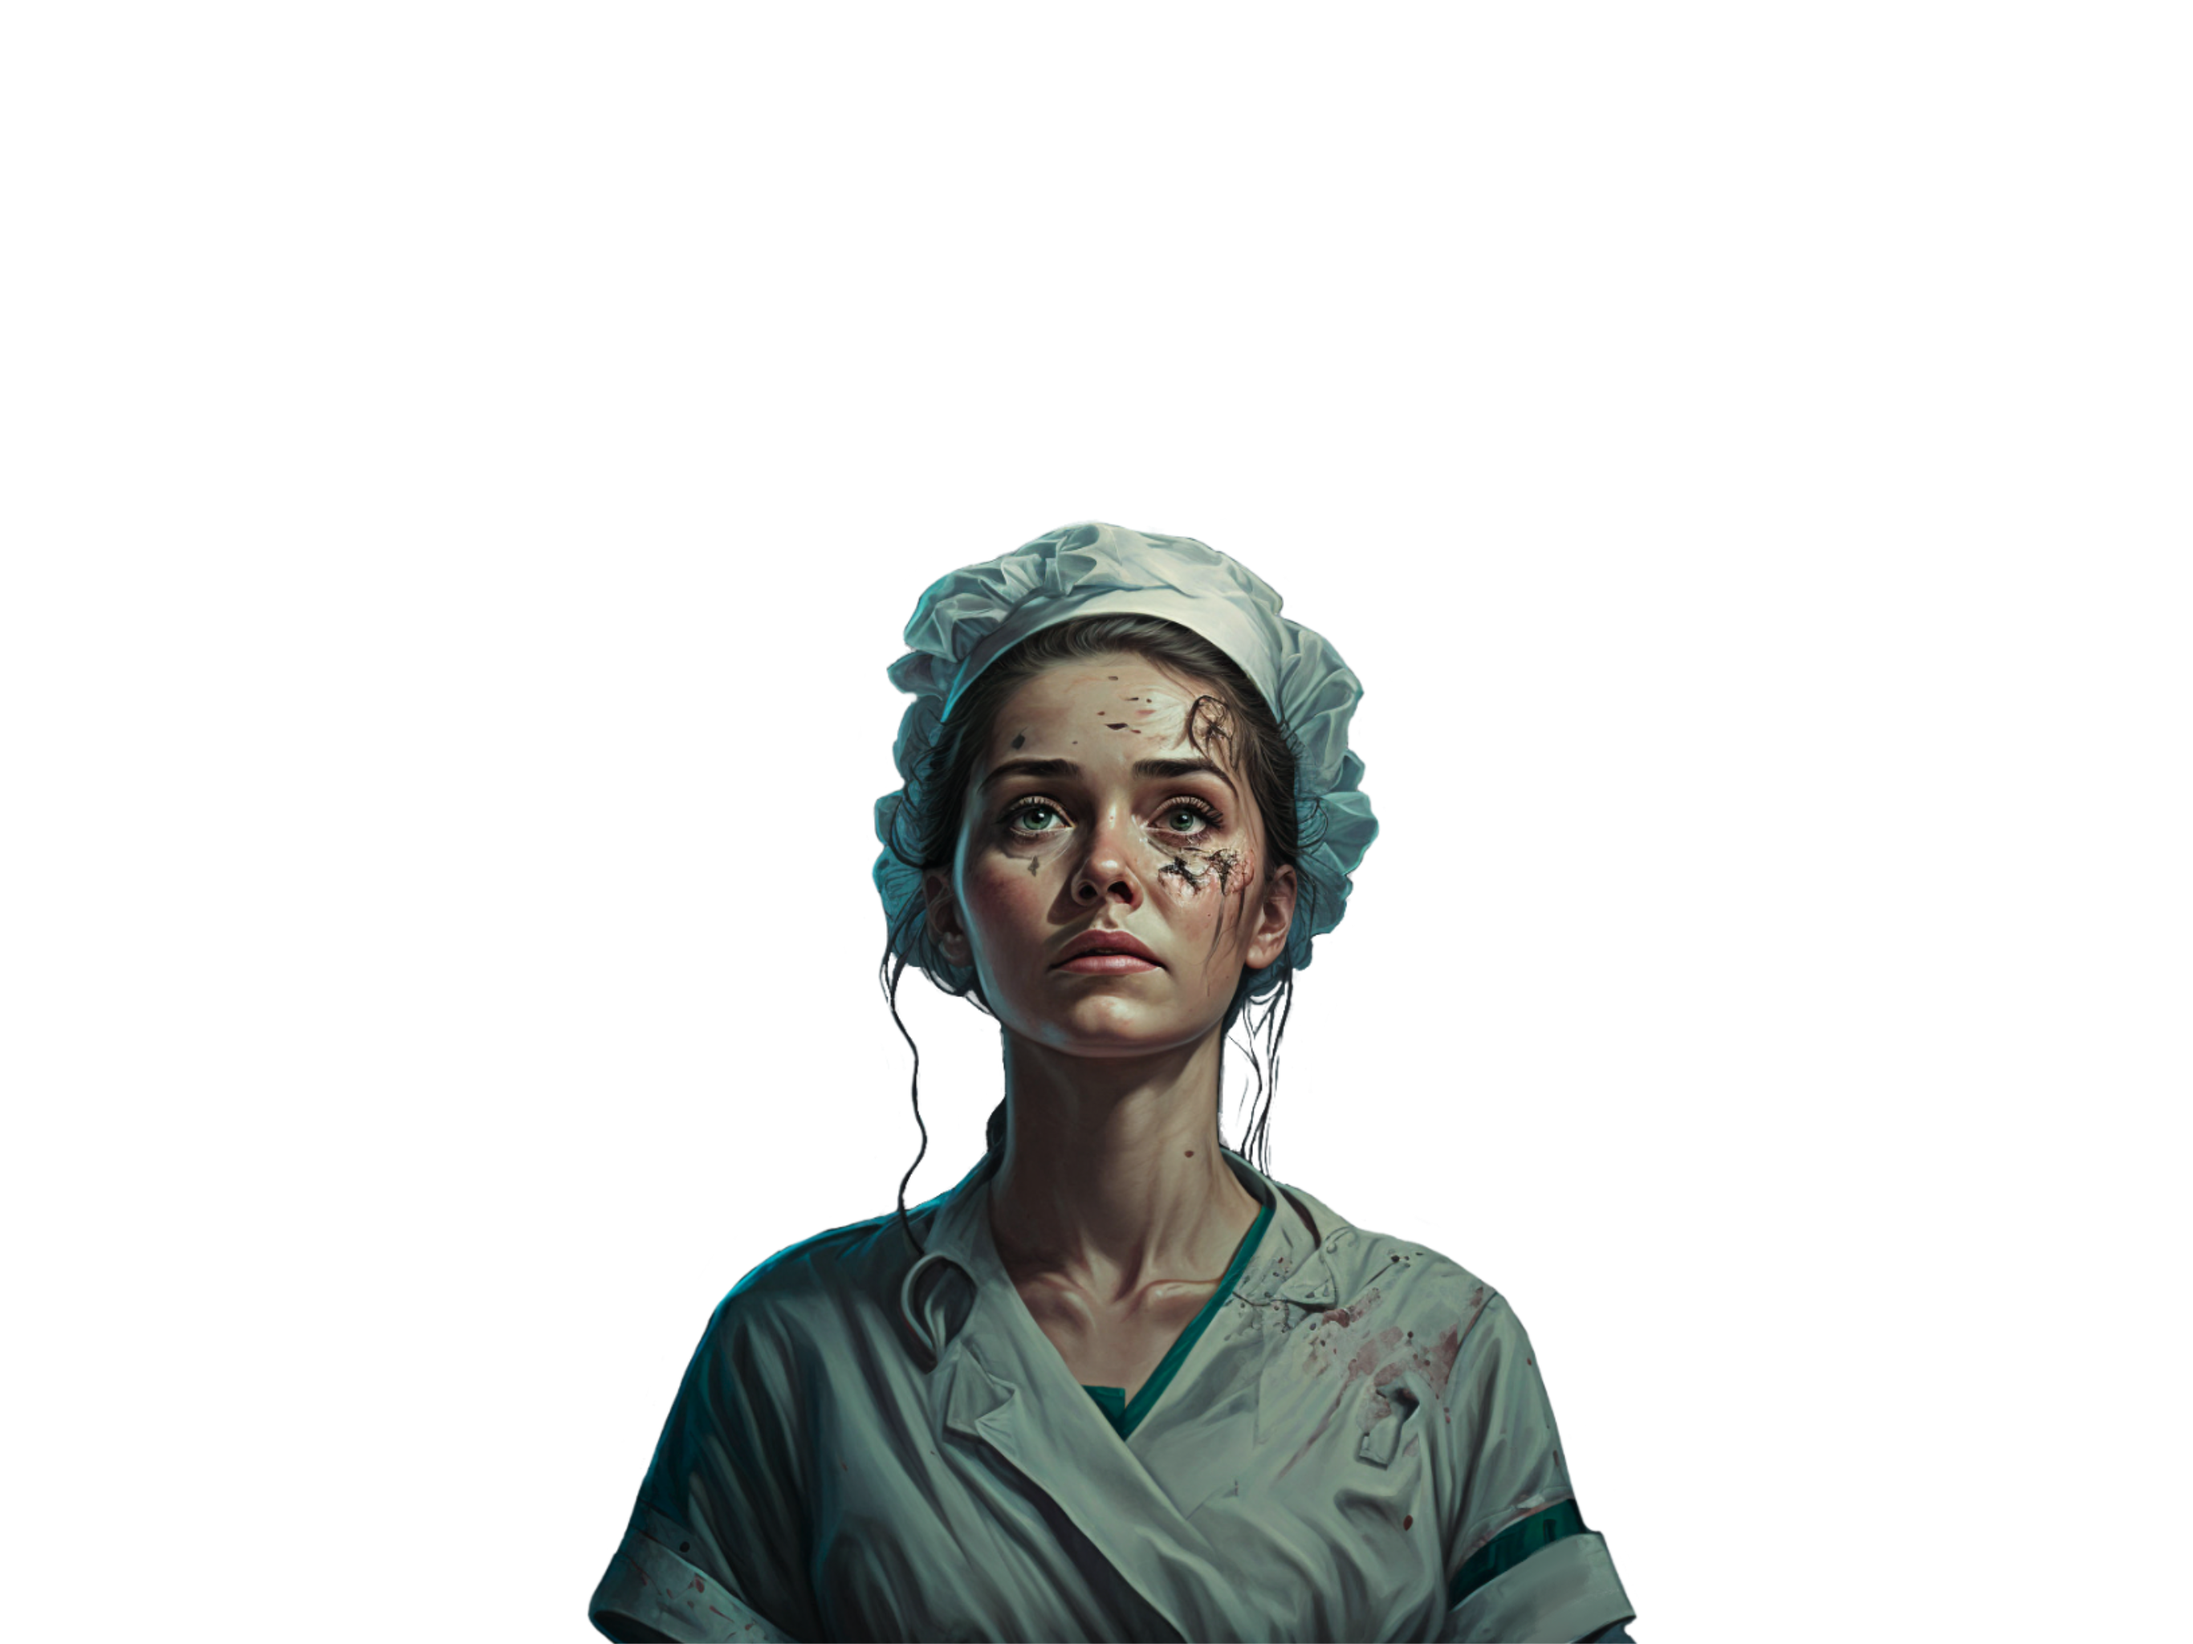
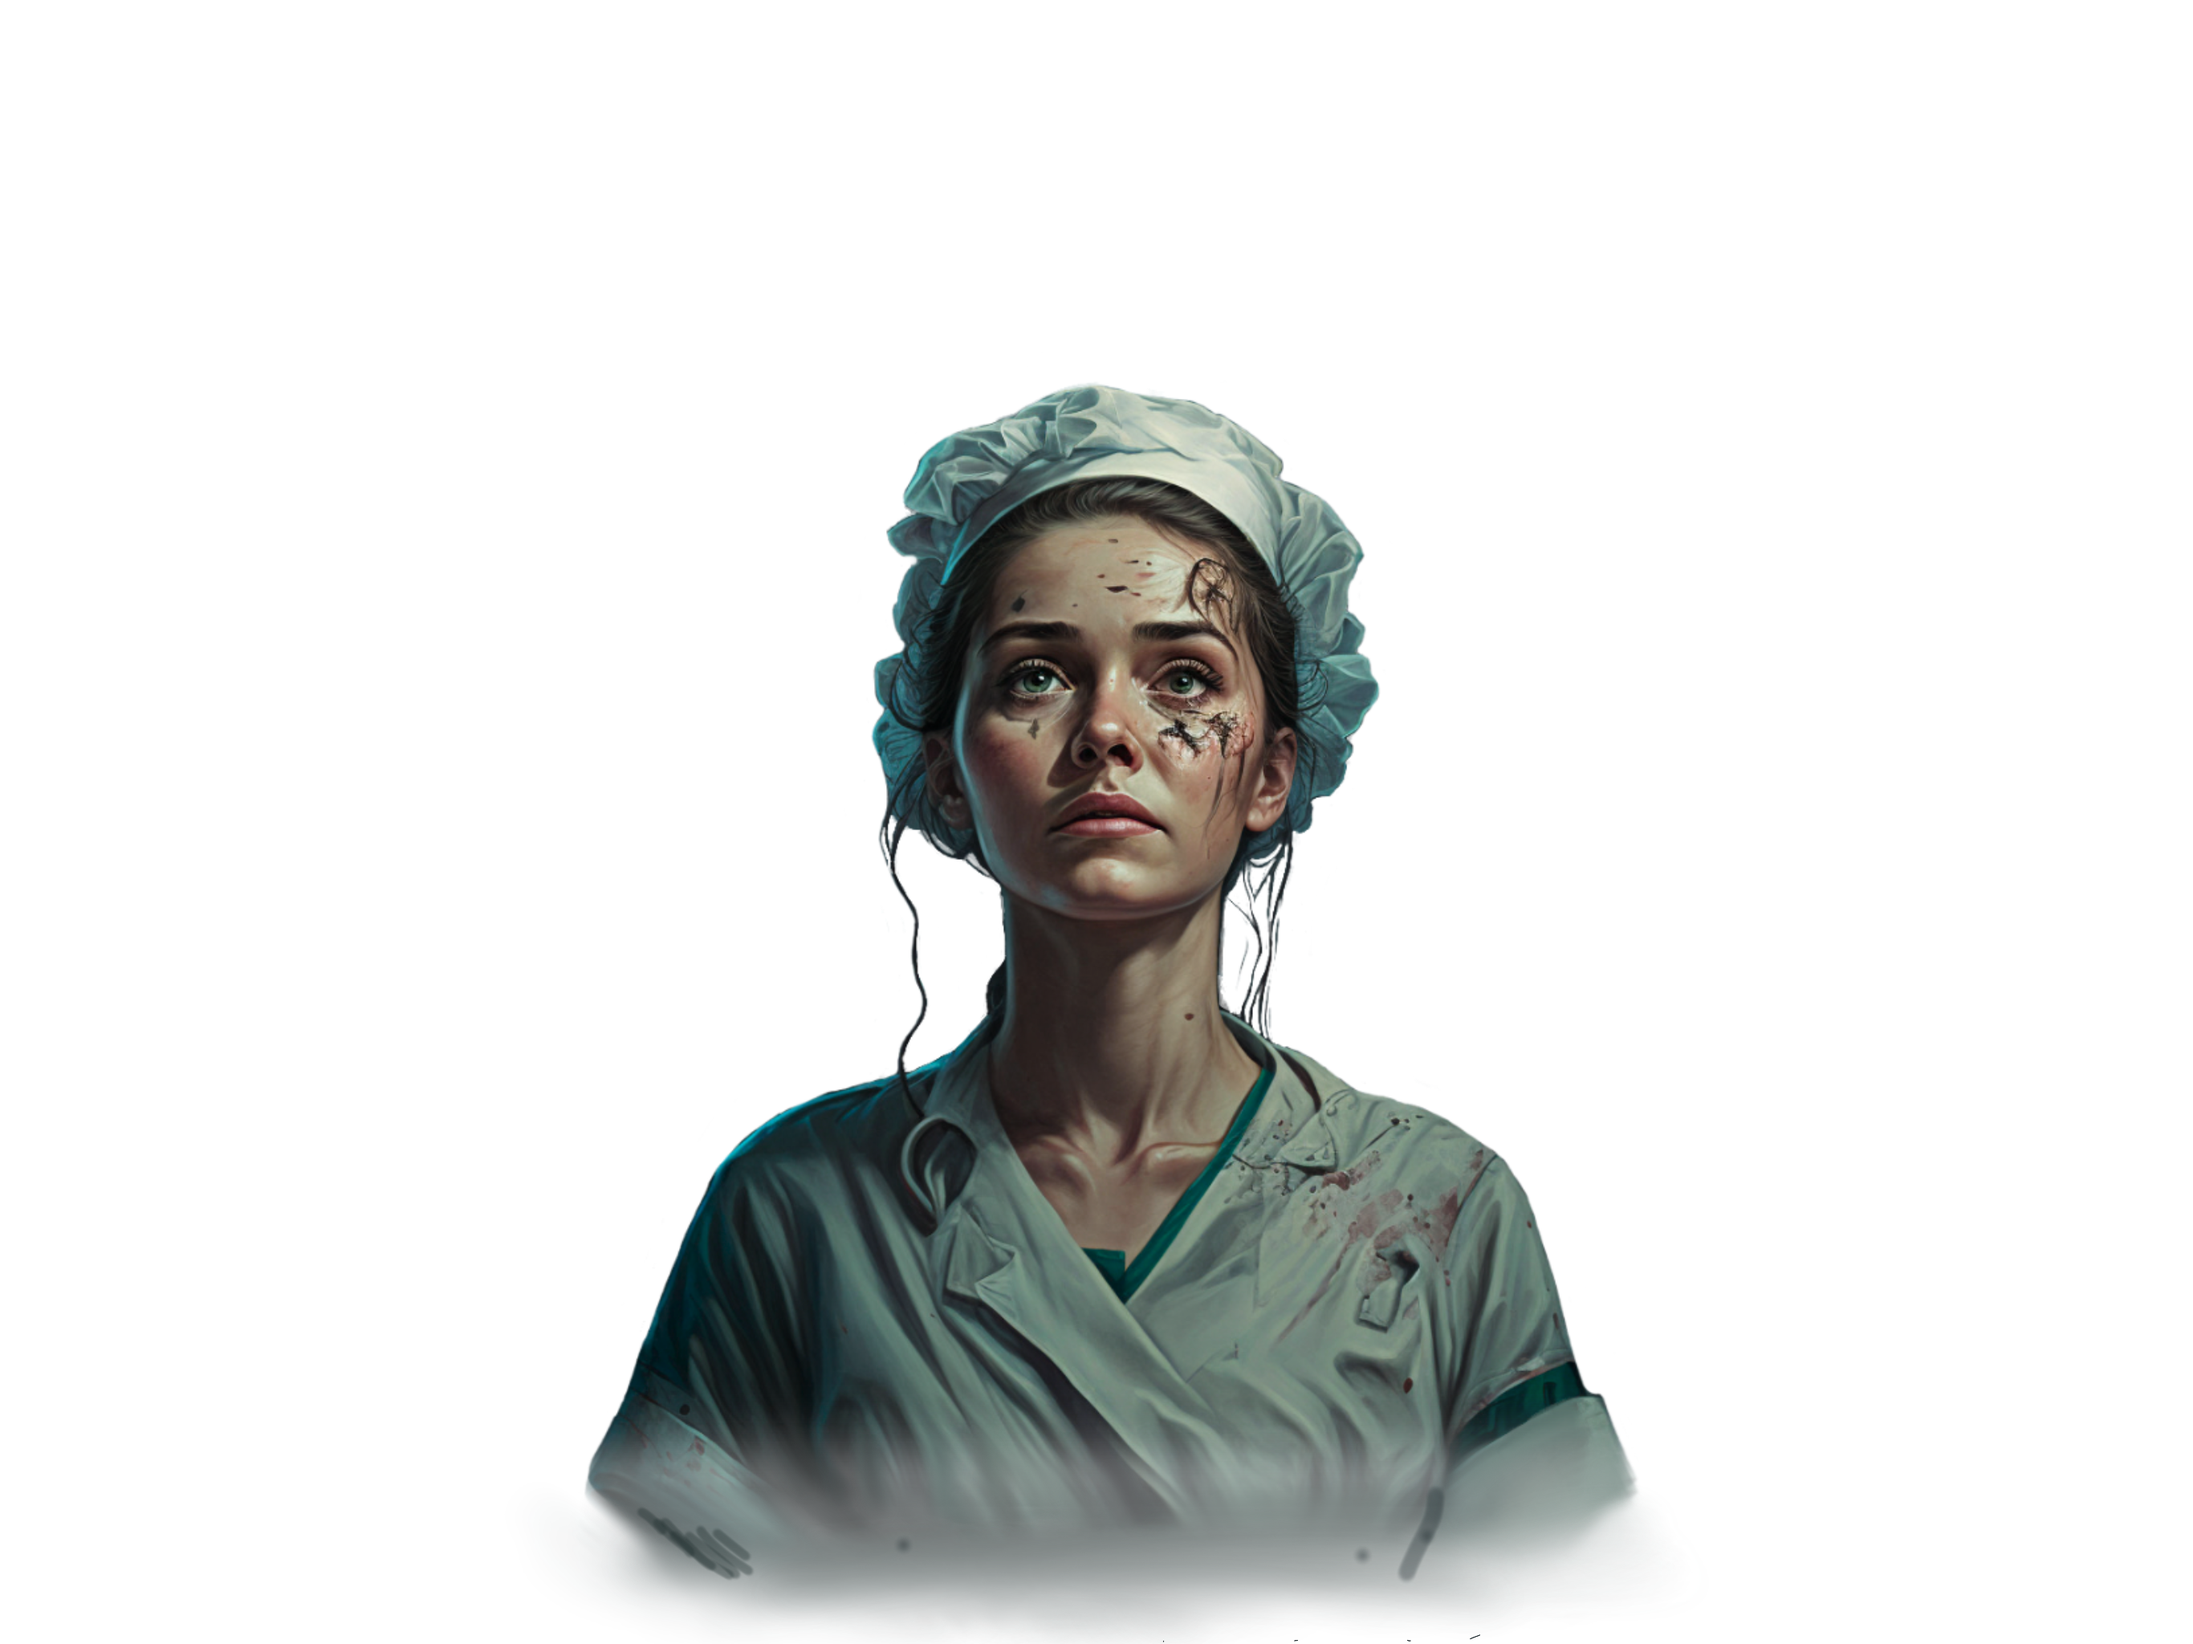
fix nurse image, toggle after nurse, rest of text

Changed region(s): [[0.2489, 0.2188, 0.7467, 1.0]]

diff --git a/2portfolio.html b/2portfolio.html
@@ -5,7 +5,7 @@
     <meta charset="UTF-8">
     <meta http-equiv="X-UA-Compatible" content="IE=edge">
     <meta name="viewport" content="width=device-width, initial-scale=1.0">
-    <title>Attempt 2</title>
+    <title>Michelle O Dev</title>
 
     <link rel="stylesheet" href="2style.css">
     <script defer src="2app.js"></script>
@@ -21,7 +21,7 @@
             <a href="notreadyyet" class="projects">.projects()</a>
         </div>
         <div class="middle-section" style="text-align: center;">
-            <a href="notreadyyet" class="resume">.resume()</a>
+            <a href="/resume.html" class="resume">.resume()</a>
         </div>
         <div class="right-section">
             <a href="notreadyyet" class="play">.play()</a>
@@ -155,18 +155,83 @@
         <section>
             <div class="container">
                 <img src="images/Weary_OR.png" class="OR" alt="operating room art" />
-                <img src="images/Weary_Nurse.png" class="nurse" alt="weary nurse art" />
+                <img src="images/Weary_Nurse.png" class="nurse" alt="weary nurse art"
+                    style="height: auto !important;" />
                 <img src="images/TB_Molecules1.png" class="TB1" alt="tuberculosis bacteria" />
                 <img src="images/TB_Molecules2.png" class="TB2" alt="tuberculosis bacteria" />
                 <img src="images/Covid_Molecule.png" class="covid1" alt="covid virus" />
                 <img src="images/Covid_Molecule_Blurry.png" class="covid2" alt="covid virus" />
             </div>
             <div class="content">
-                <div class="content-images">
-                    <div>
-                        <h2>It was a tough job but I learned some key skills:</h2>
-                    </div>
+
+                <div class="content-images hidden">
+
                 </div>
+                <div class="hidden2" style="margin-top: 25%;">
+                    <h2>It was a tough job but I learned some key skills:</h2>
+                </div>
+                <div class="hidden2">
+                    <h3>How to communicate <FONT COLOR="RED">critical things...</FONT> <br>even to people who are
+                        intimidating (like a brain surgeon in the middle of a tricky operation).</h3>
+                </div>
+                <div class="hidden2">
+                    <h3>Intense team dynamics: <br>I worked with <font color=#5DC4FF>4-10 different people </font>every
+                        hour,
+                        every day, often with strong personalities. </h3>
+                </div>
+                <div class="hidden2">
+                    <h3>I can learn <font color=#807EFE>complex technical skills</font> that I don't even particularly
+                        like -
+                        and still master them. </h3>
+                </div>
+                <div class="hidden2">
+                    <h3>Forward-thinking and process improvement are important! <br>
+                        Computers are tools to help humans live better.</h3>
+                </div><!--Simple CSS Waves-->
+                <div class="header">
+
+                    <!--Content before waves-->
+                    <div class="inner-header flex">
+                    </div>
+                    <!--Waves Container-->
+                    <div>
+                        <svg class="waves" xmlns="http://www.w3.org/2000/svg" xmlns:xlink="http://www.w3.org/1999/xlink"
+                            viewBox="0 24 150 28" preserveAspectRatio="none" shape-rendering="auto">
+                            <defs>
+                                <path id="gentle-wave"
+                                    d="M-160 44c30 0 58-18 88-18s 58 18 88 18 58-18 88-18 58 18 88 18 v44h-352z" />
+                            </defs>
+                            <g class="parallax">
+                                <use xlink:href="#gentle-wave" x="48" y="0" fill="#E97EFE" />
+                                <use xlink:href="#gentle-wave" x="48" y="3" fill="#8CFFEC" />
+                                <use xlink:href="#gentle-wave" x="48" y="5" fill="#807EFE" />
+                                <use xlink:href="#gentle-wave" x="48" y="7" fill="#5DC4FF" />
+                            </g>
+                        </svg>
+                    </div>
+                    <!--Waves end-->
+                </div>
+                <!--Waves end-->
+
+                <section class="hidden2">
+                    <h3>Tech interests: <br>UI/UX, GPT, MidJourney AI Art, cybersecurity </h3>
+                </section>
+
+                <section class="hidden2">
+                    <h3>My ultimate goal: <br>Work for a B-Corp or a company/start-up doing Earth-affirming things.</h3>
+                </section>
+
+                <section class="hidden2">
+                    <h2>I want to put my knowledge to work and have a direction for further learning. What framework
+                        should I tackle next? Bring me into your organization and show me the problems you solve,
+                        I'd love to contribute.
+                    </h2><br>
+                    <h1>Take a look at my <a href="/resume.html" class="resume">.resume()</a><br>or contact me on
+                        <a href="https://www.linkedin.com/in/michelleogorzal/">LinkedIn</a>
+                    </h1>
+                </section>
+
+
             </div>
         </section>
 

diff --git a/2style.css b/2style.css
@@ -1,4 +1,4 @@
-@import url('https://fonts.googleapis.com/css2?family=Poppins:wght@200;400;700&display=swap');
+@import url('https://fonts.googleapis.com/css2?family=Poppins:wght@100;200;400;700&display=swap');
 
 
 
@@ -14,6 +14,7 @@ body {
   background-color: #121212;
   color: antiquewhite;
   font-size: 1.75rem;
+  font-weight: 100;
   transition:2s;  
 }
 
@@ -24,6 +25,12 @@ a {
 
 h1, h2 {
   font-size:4rem;
+  font-weight: 100;
+  margin: 0px;
+}
+h3 {
+  font-size: 3rem;
+  font-weight: 100;
   margin: 0px;
 }
 
@@ -45,7 +52,7 @@ h1, h2 {
   cursor: pointer;
   }    
 .dark-mode {
-  transition:2s;
+  transition:1.4s;
   background-color: white;
   color: black;
 }
@@ -189,15 +196,81 @@ h1, h2 {
 
 .content {
   width: 100%;
-  background: #121212;
-  min-height: 100vh;
+  background: transparent;
   z-index: 2;
   position: absolute;
 }
 .content-images {
-  display: flex;
-  justify-content: space-around;
   align-items: center;
   min-height: 60vh;
   text-align: center;
 }
+.hidden2 {
+  text-align: center;
+  margin: 10%;
+}
+
+
+/* Simple CSS Waves*/
+
+
+.inner-header {
+  height:-65vh;
+  width:100%;
+  margin: 0;
+  padding: 0;
+}
+
+.flex { /*Flexbox for containers*/
+  display: flex;
+  justify-content: center;
+  align-items: center;
+  text-align: center;
+}
+.waves {
+  position:relative;
+  width: 100%;
+  height:15vh;
+  margin-bottom:-7px; /*Fix for safari gap*/
+  min-height:100px;
+  max-height:150px;
+}
+/* Animation */
+.parallax > use {
+  animation: move-forever 25s cubic-bezier(.55,.5,.45,.5)     infinite;
+}
+.parallax > use:nth-child(1) {
+  animation-delay: -2s;
+  animation-duration: 7s;
+}
+.parallax > use:nth-child(2) {
+  animation-delay: -3s;
+  animation-duration: 10s;
+}
+.parallax > use:nth-child(3) {
+  animation-delay: -4s;
+  animation-duration: 13s;
+}
+.parallax > use:nth-child(4) {
+  animation-delay: -5s;
+  animation-duration: 20s;
+}
+@keyframes move-forever {
+  0% {
+   transform: translate3d(-90px,0,0);
+  }
+  100% { 
+    transform: translate3d(85px,0,0);
+  }
+}
+/*Shrinking for mobile*/
+@media (max-width: 768px) {
+  .waves {
+    height:40px;
+    min-height:40px;
+  }
+  h1 {
+    font-size:24px;
+  }
+}
+/* Simple CSS Waves end */

diff --git a/2app.js b/2app.js
@@ -351,8 +351,8 @@ timeline
   .to(".nurse", 50, { y: -95 }, "-=50")
   .fromTo(".OR", { y: -50 }, { y: 0, duration: 10 }, "-=10")
   .to(".content", 10, { top: "10%" }, "-=10")
-  .fromTo(".content-images", { opacity: 0 }, { opacity: 1, duration: 3 })
-  .fromTo(".text", { opacity: 0 }, { opacity: 1, duration: 3 });
+  .fromTo(".content-images", { opacity: 0 }, { opacity: 1, duration: 2 })
+  .fromTo(".text", { opacity: 0 }, { opacity: 1, duration: 2 });
 
 let scene = new ScrollMagic.Scene({
   triggerElement: "section",

diff --git a/resume.html b/resume.html
@@ -4,7 +4,7 @@
     <meta charset="UTF-8">
     <meta http-equiv="X-UA-Compatible" content="IE=edge">
     <meta name="viewport" content="width=device-width, initial-scale=1.0">
-    <title>Resume</title>
+    <title>Resume Michelle O</title>
 
     <link rel="stylesheet" href="resume.css">
     <script defer src="resume.js"></script>

diff --git a/grids.html b/grids.html
@@ -56,3 +56,8 @@
     
 </body>
 </html>
+
+
+
+
+
